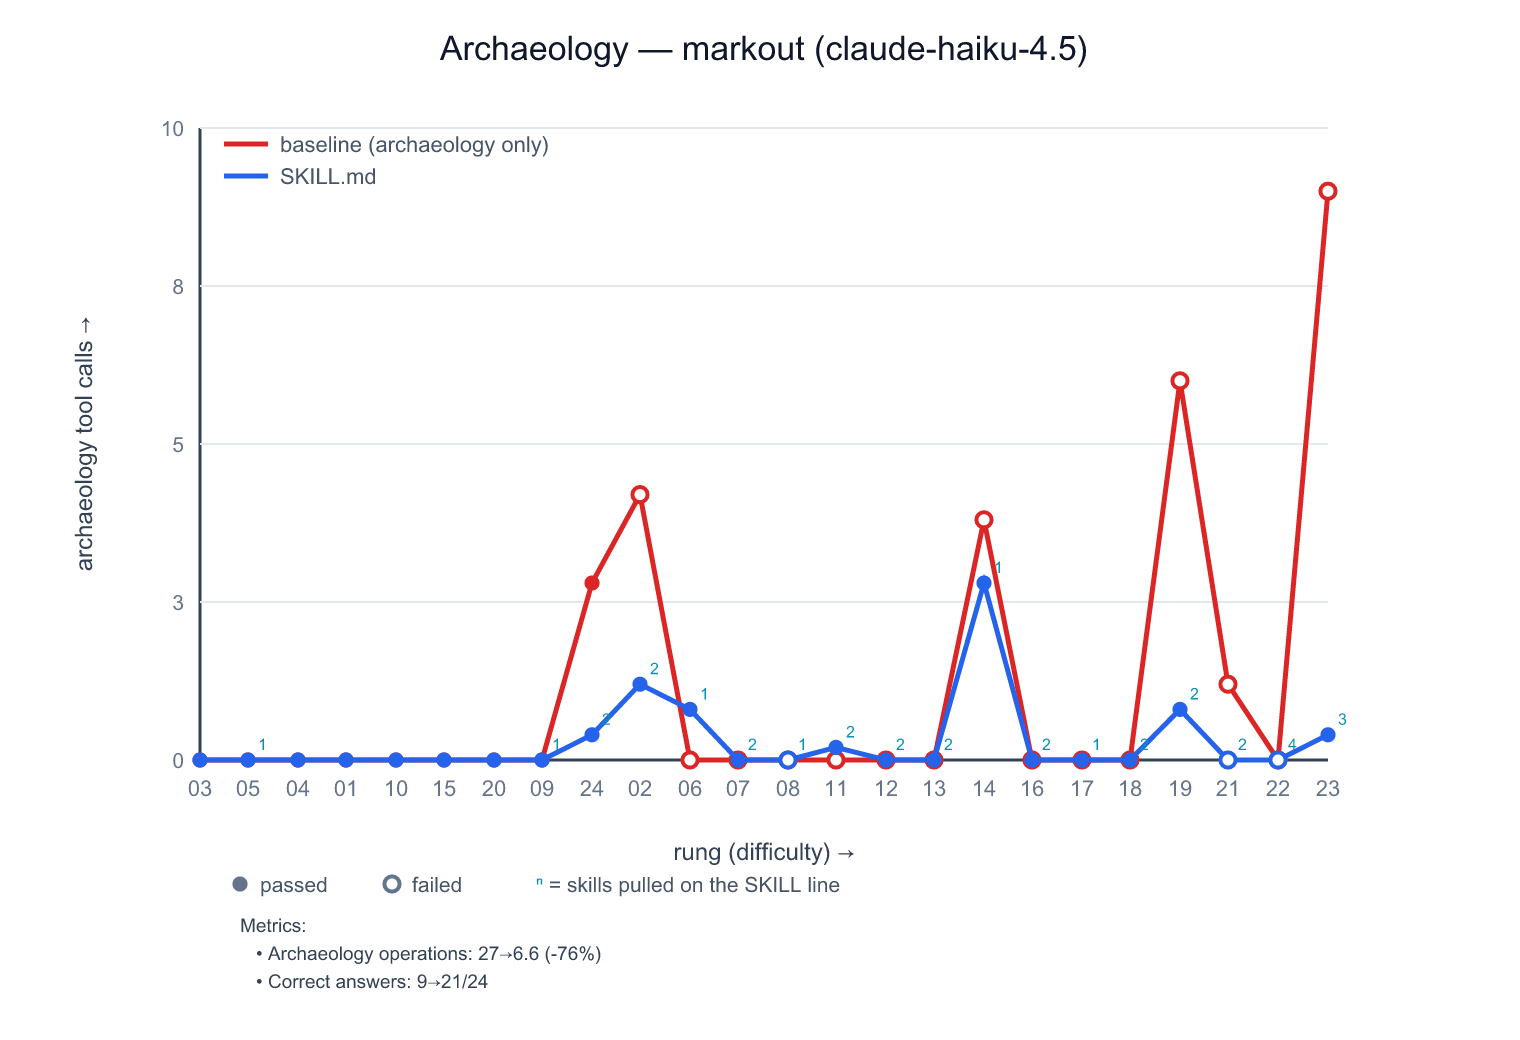
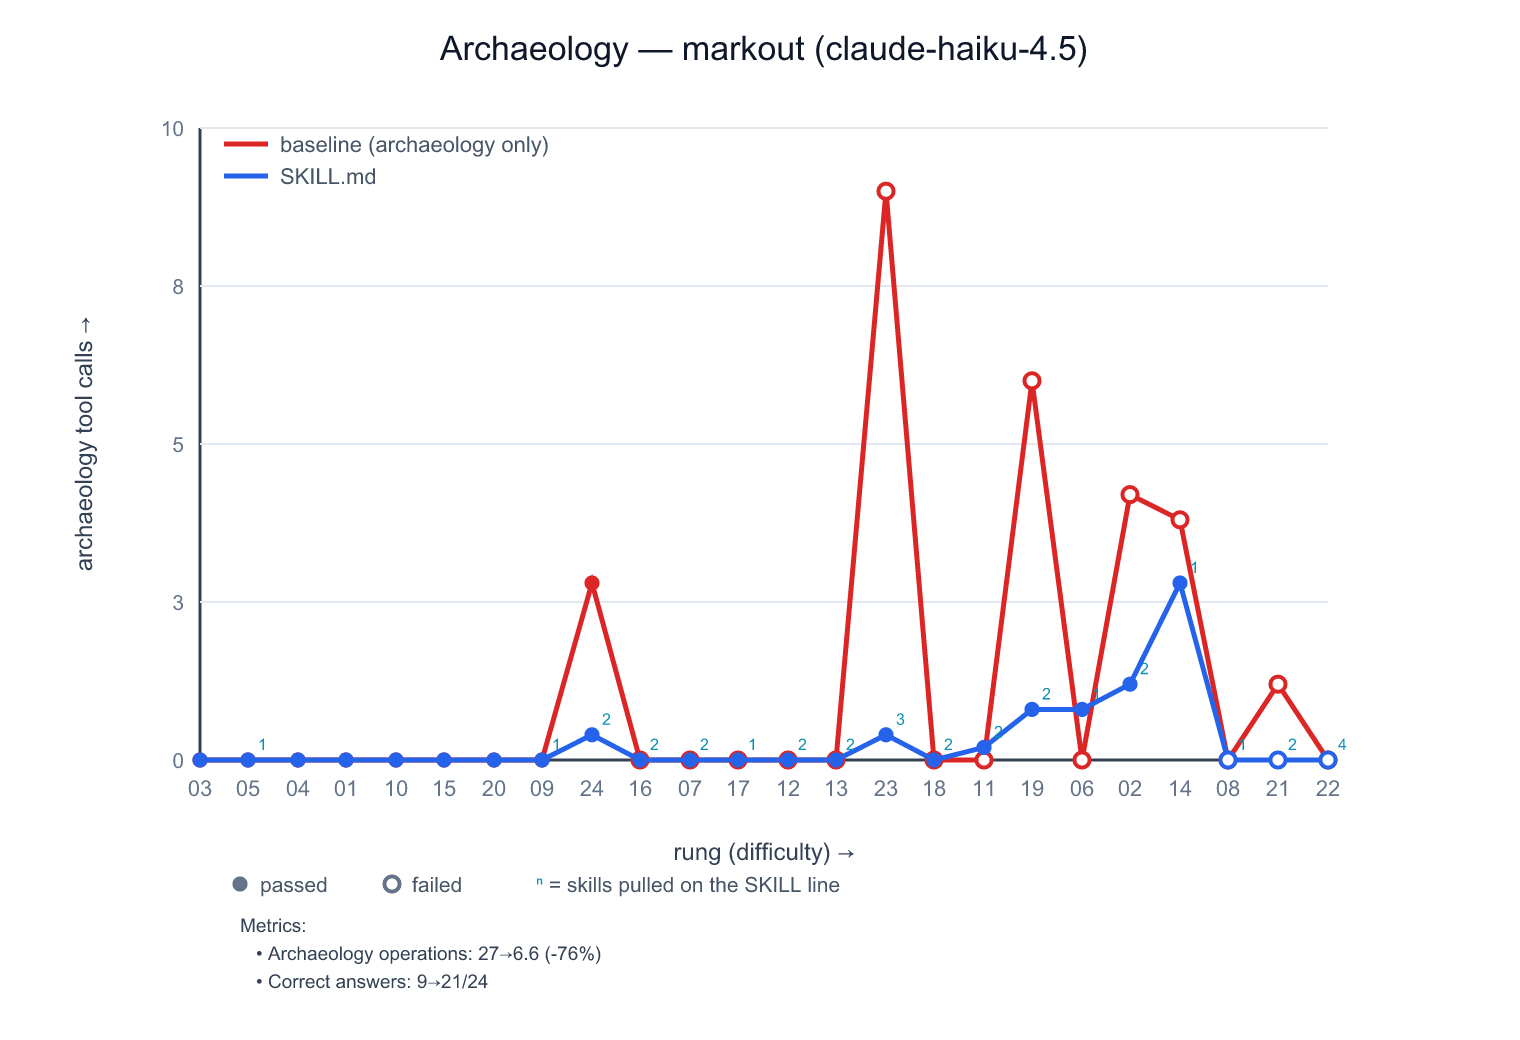
grounding/markout: three-tier LIET x-axis ordering
Regenerate charts with the new difficulty ordering (grounding@7b6e834):
baseline-correct rungs (by baseline IET), then grounded-only unlocks (by
grounded IET), then rungs neither arm answers. The SKILL.md unlock arm now
reads as a monotonic curve instead of authored-order zig-zag; the duration
overlay and archaeology companion share the same x-axis.

Copilot-Session: 72eaa939-bb19-4439-963c-c3a4d6212b2d

diff --git a/grounding/markout/results.md b/grounding/markout/results.md
@@ -5,7 +5,7 @@ What the skill shelf buys a consuming agent, measured on the [CT-24 workflow lad
 only the Markout rendering. Prompts describe the library functionally and never name it, so skill
 discovery is organic.
 
-- **Harness:** `richlander/dotnet-package-grounding@691e0a3` + `skill-validator@de363a5` (two-axis verdict + IET decomposition, `analyze --view card`).
+- **Harness:** `richlander/dotnet-package-grounding@7b6e834` + `skill-validator@de363a5` (two-axis verdict + IET decomposition, `analyze --view card`).
 - **Package:** Markout `0.23.0`; shelf `skills/markout-consumer@634b53c` (MVV-free).
 - **Arms:** `baseline` (no grounding) → `SKILL.md` (the shelf, agent self-selects). **Eval mode:** holistic (baseline vs plugin; isolated arm skipped). IET model `anthropic`.
 - **Judge:** `claude-haiku-4.5`. **Runs:** n=5 per scenario (position-swapped).
